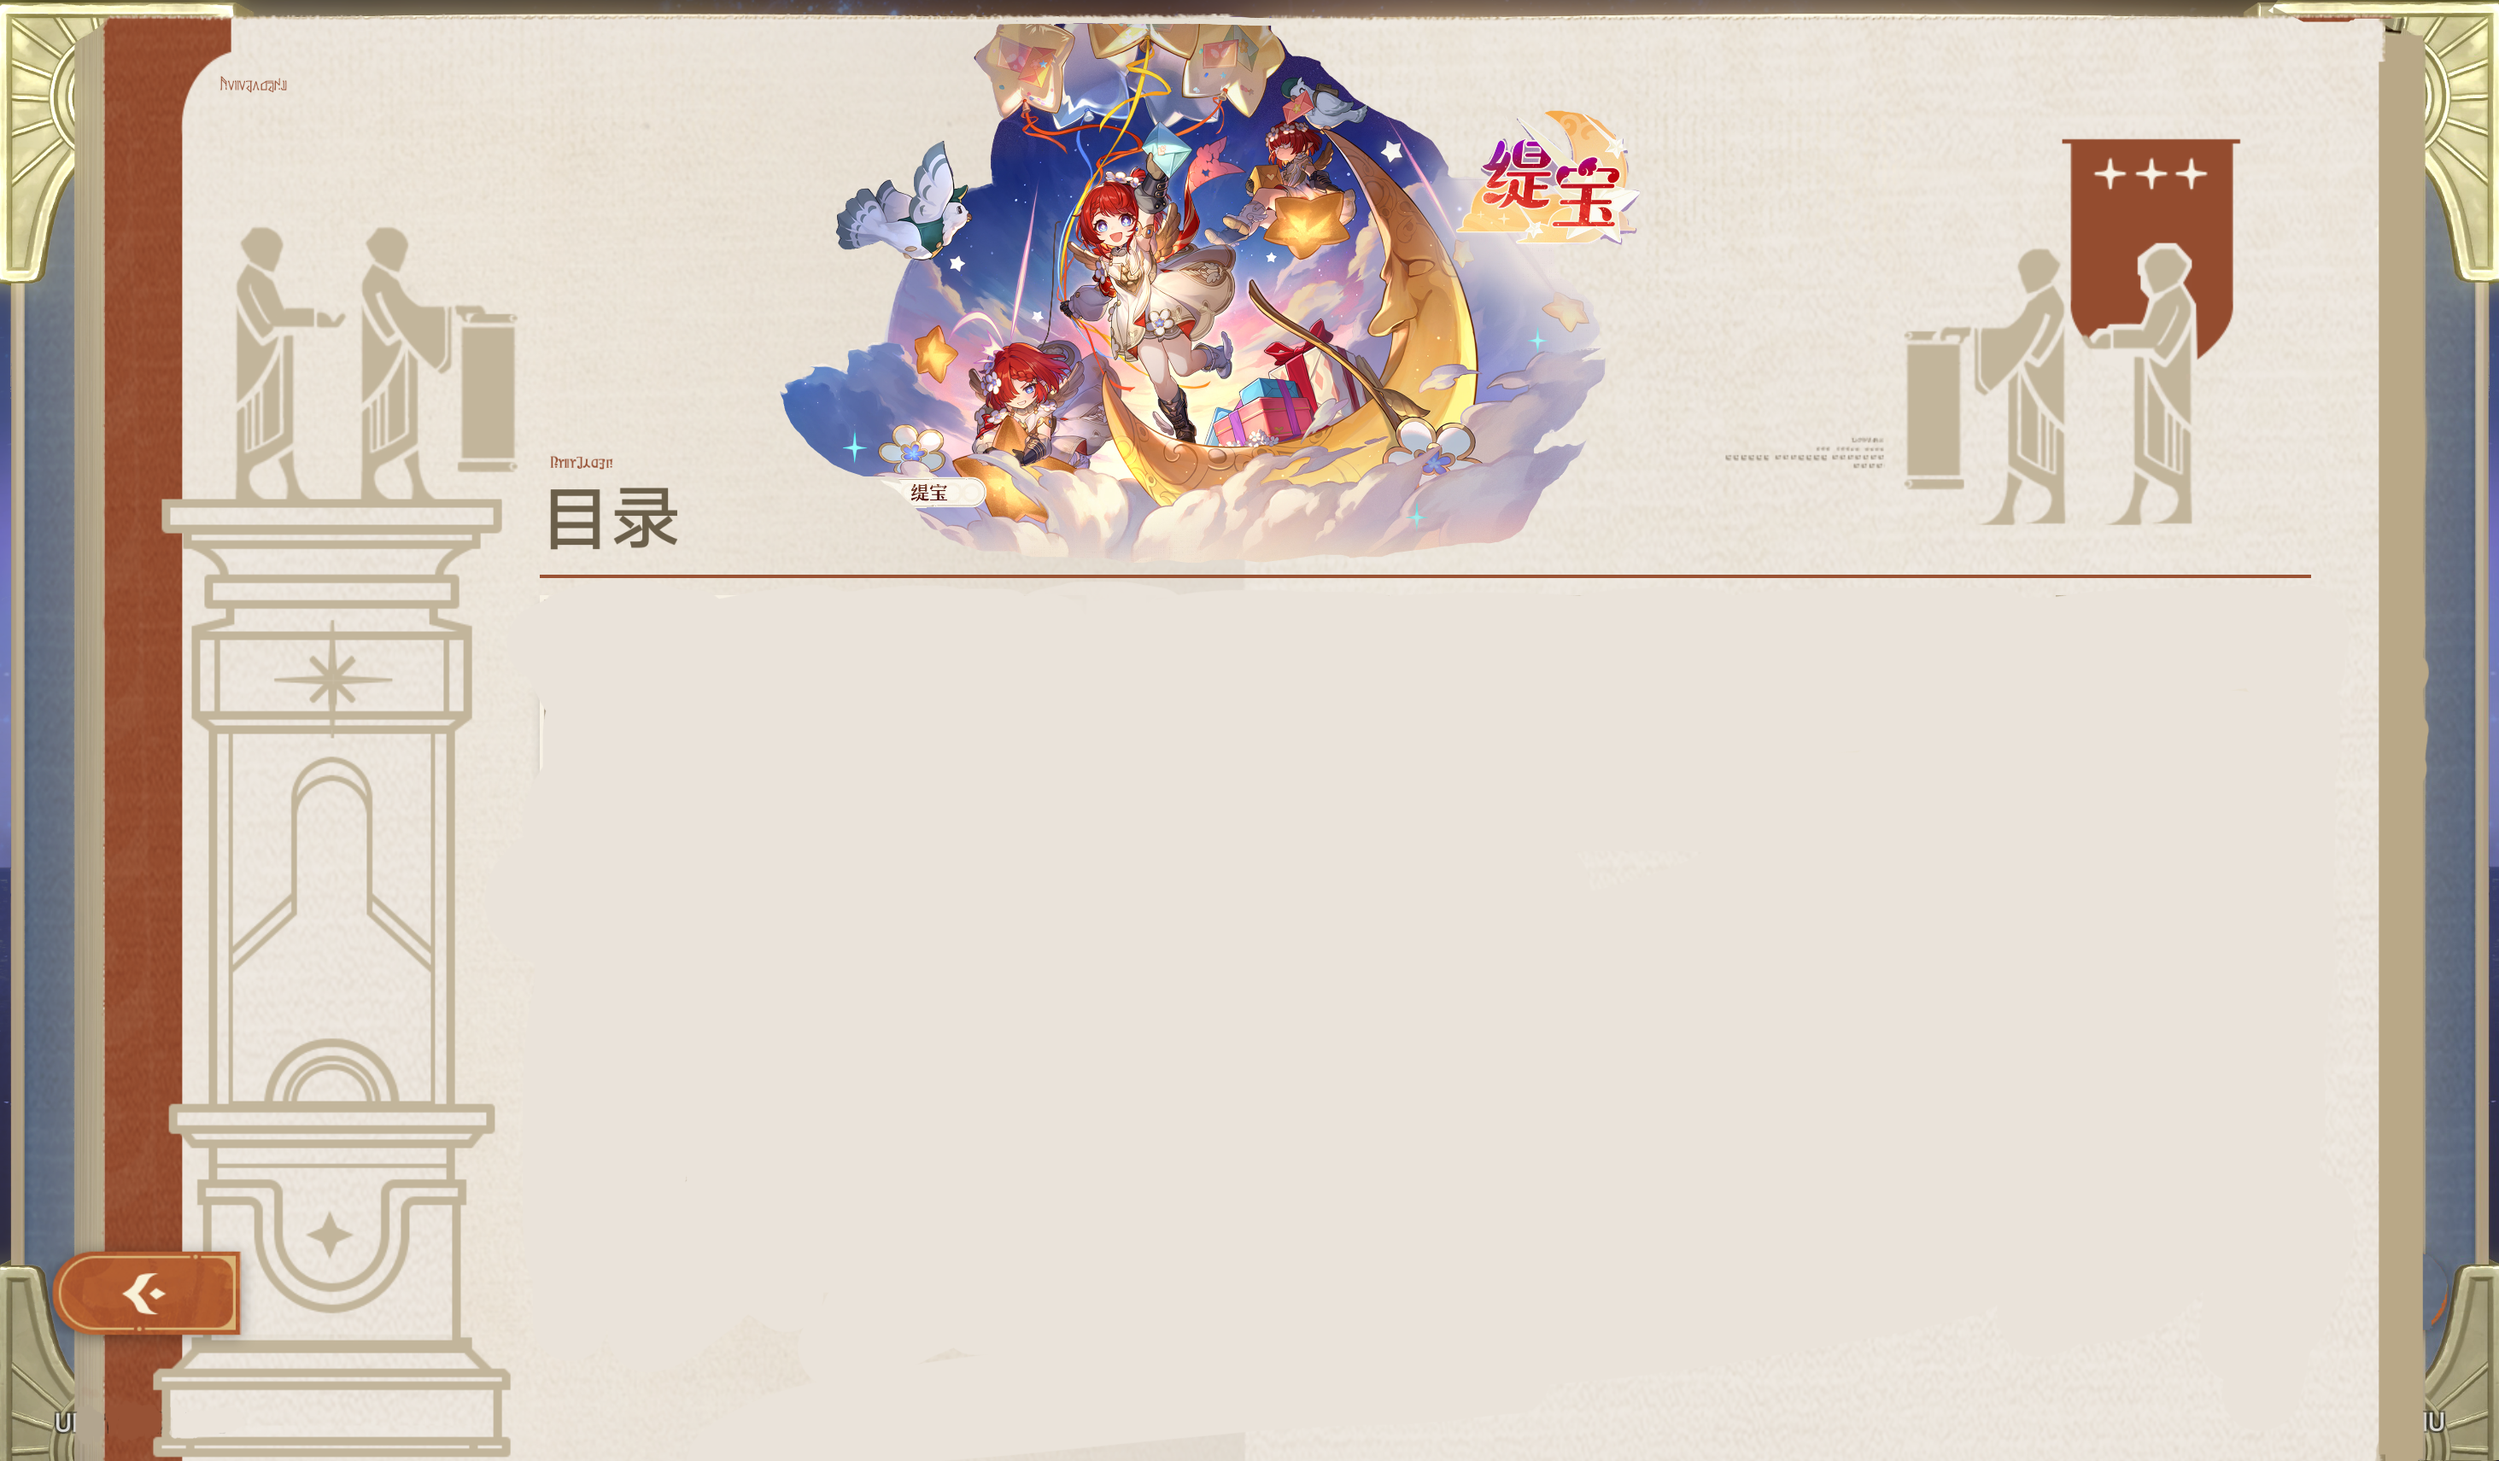
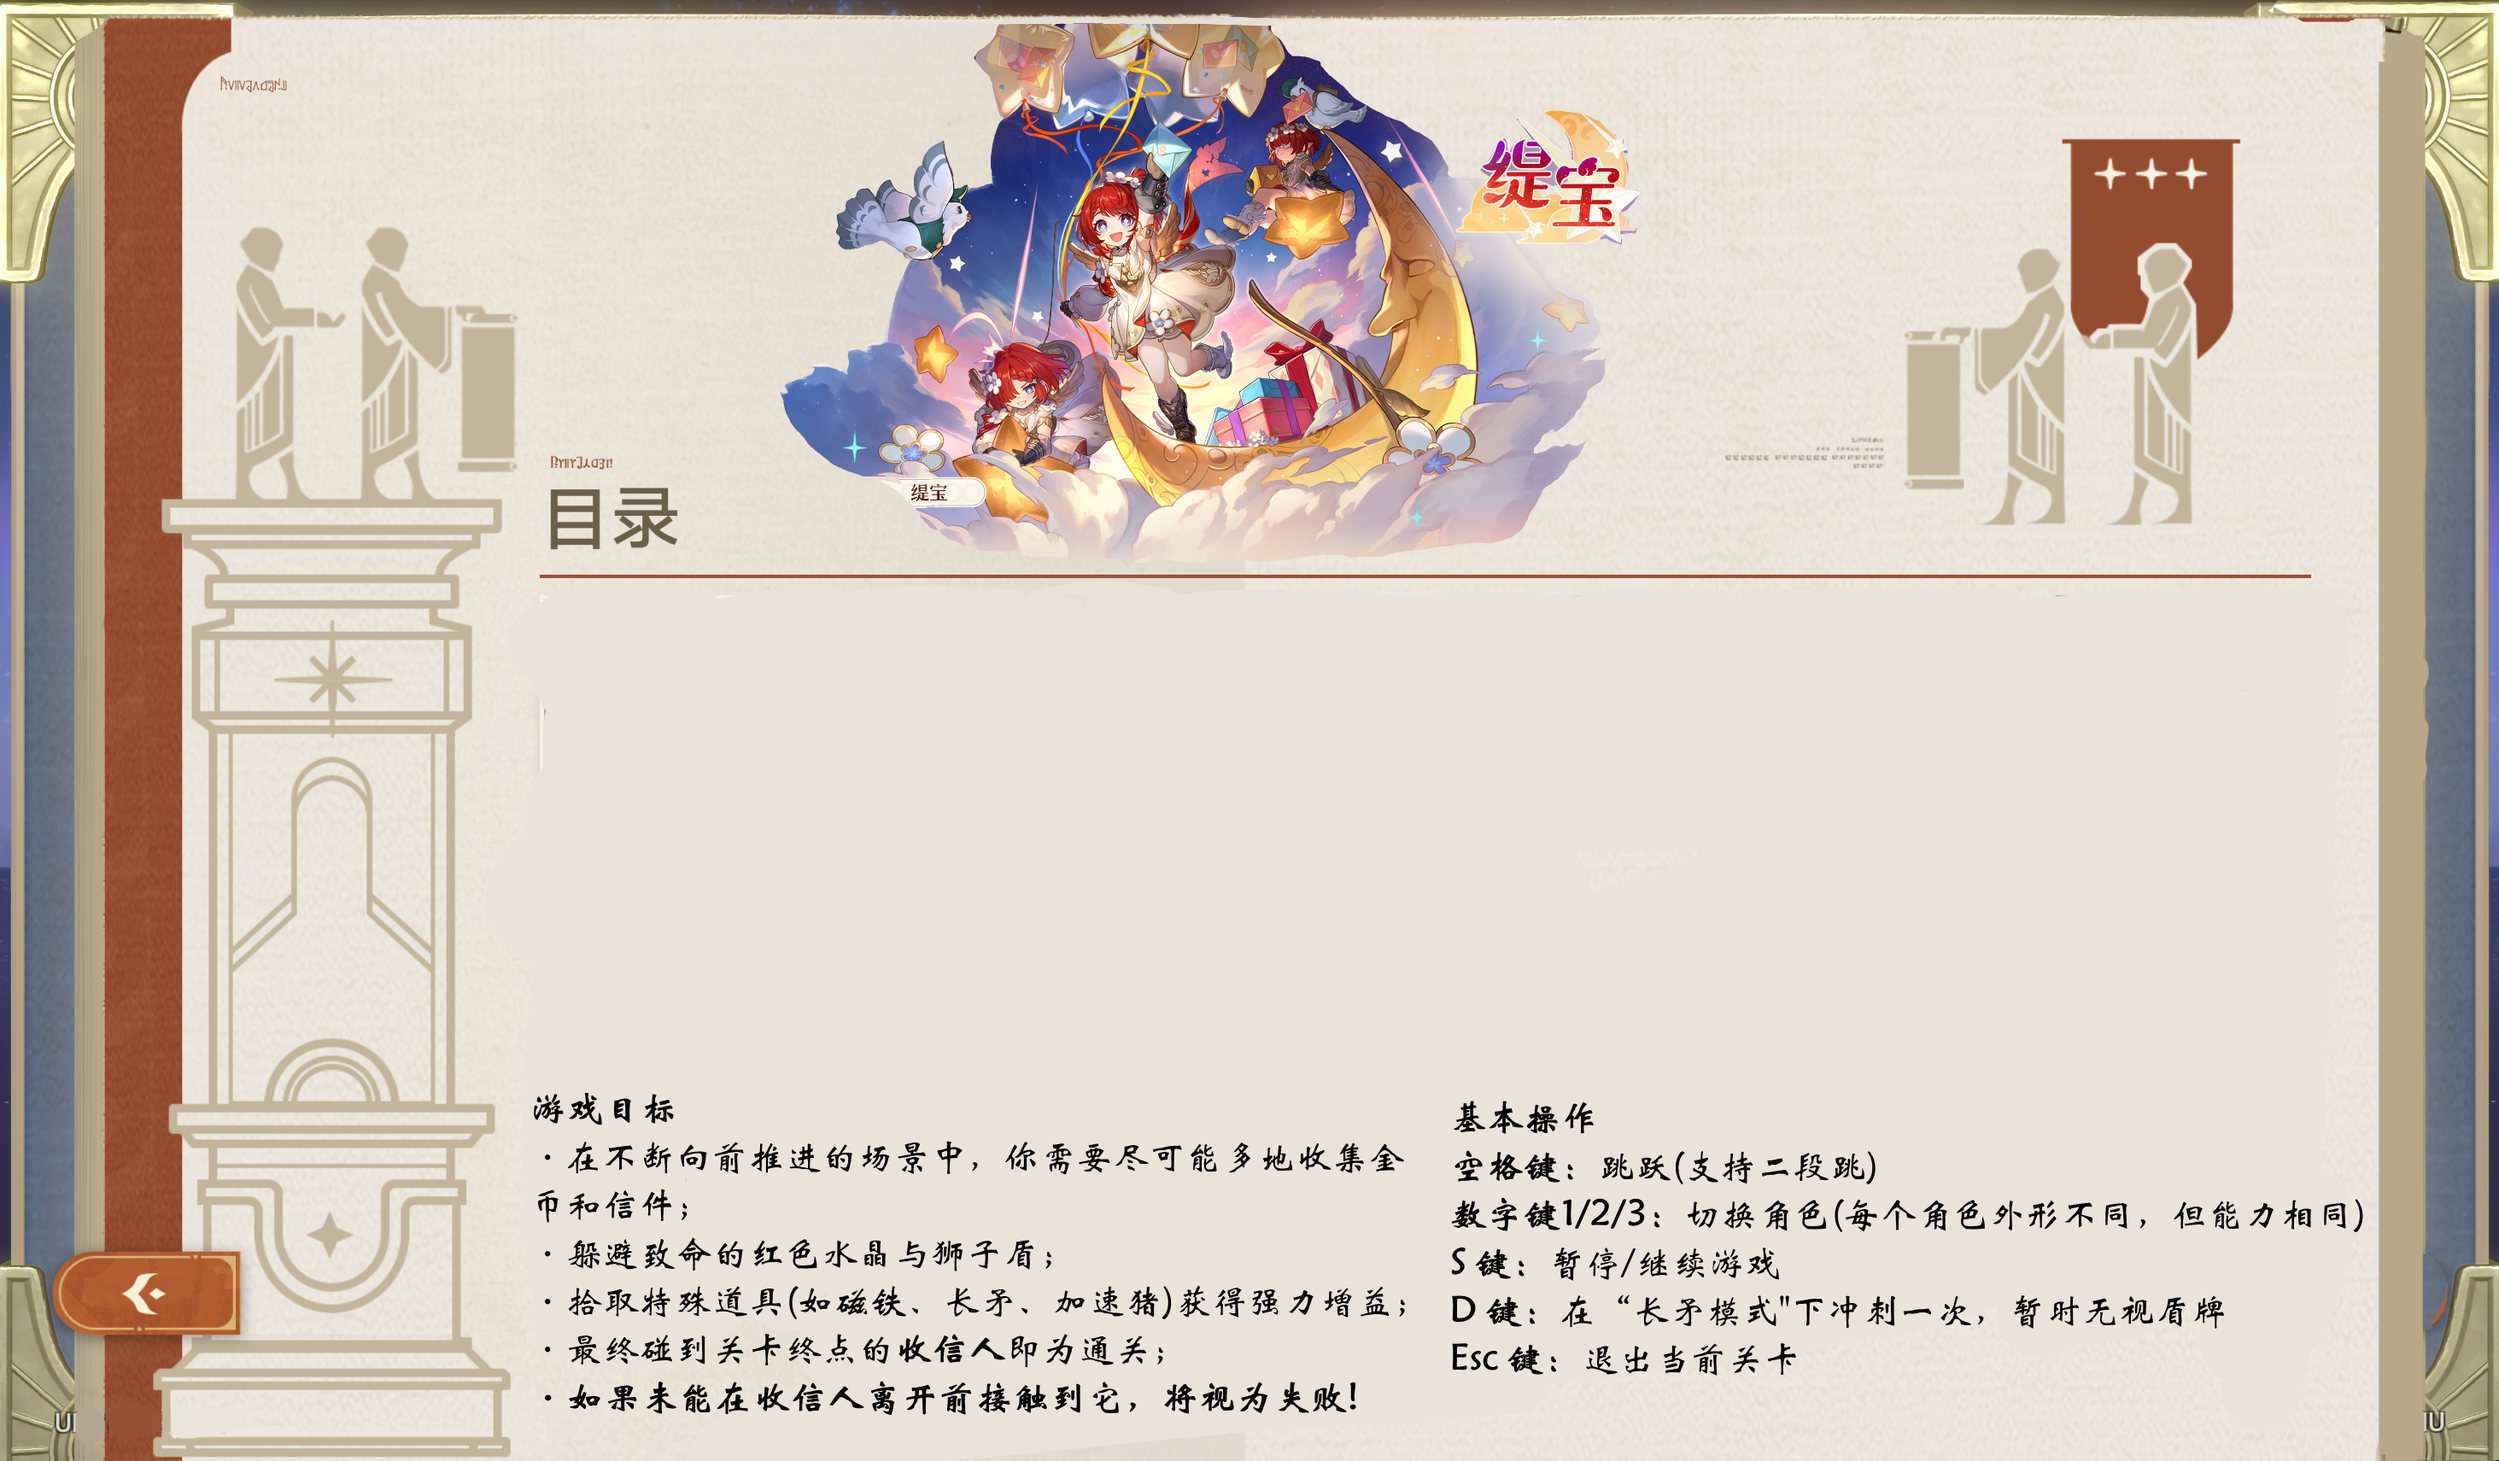
游戏指引

diff --git a/gamewindow.cpp b/gamewindow.cpp
@@ -299,6 +299,16 @@ GameWindow::GameWindow(int level, QWidget *parent)
         }
     });
 
+    // 构造函数 GameWindow::GameWindow(int level, QWidget *parent) 的尾部添加：
+    m_pauseOverlay = new QLabel(this);
+    QString path = QString(":/images/pause%1.png").arg(m_level);
+    m_pauseOverlay->setPixmap(QPixmap(path).scaled(1000, 500, Qt::KeepAspectRatio, Qt::SmoothTransformation));
+    m_pauseOverlay->setGeometry((width() - 800)/2 -100 , (height() - 400) / 2, 1000, 500);  // 居中
+    m_pauseOverlay->setStyleSheet("background: transparent;");
+    m_pauseOverlay->hide();
+
+
+    togglePause(); // 默认暂停
 
 }
 
@@ -381,10 +391,12 @@ void GameWindow::togglePause() {
     if (m_isPaused) {
         m_gameTimer->stop();
         m_itemManager->pauseItems();
+        m_pauseOverlay->show(); // 显示暂停提示图
     } else {
         m_frameTimer.restart(); // 避免物品突进
         m_gameTimer->start(16);
         m_itemManager->resumeItems();
+        m_pauseOverlay->hide(); // 隐藏暂停图
     }
 }
 

diff --git a/levelselectwindow.cpp b/levelselectwindow.cpp
@@ -5,6 +5,7 @@
 #include <QHBoxLayout>
 #include <QScrollArea>
 #include <QPixmap>
+#include <QLabel>
 #include <QDebug>
 
 LevelSelectWindow::LevelSelectWindow(QWidget *parent)
@@ -67,4 +68,7 @@ void LevelSelectWindow::setupUI() {
         height() - scrollArea->height() - 30
         );
     scrollArea->setStyleSheet("background: transparent; border: none;"); // 原始透明样式
+
+    // 基本介绍
+
 }

diff --git a/gamewindow.h b/gamewindow.h
@@ -91,4 +91,6 @@ private:
 
     int m_level = 1;
 
+    QLabel* m_pauseOverlay = nullptr;
+
 };
